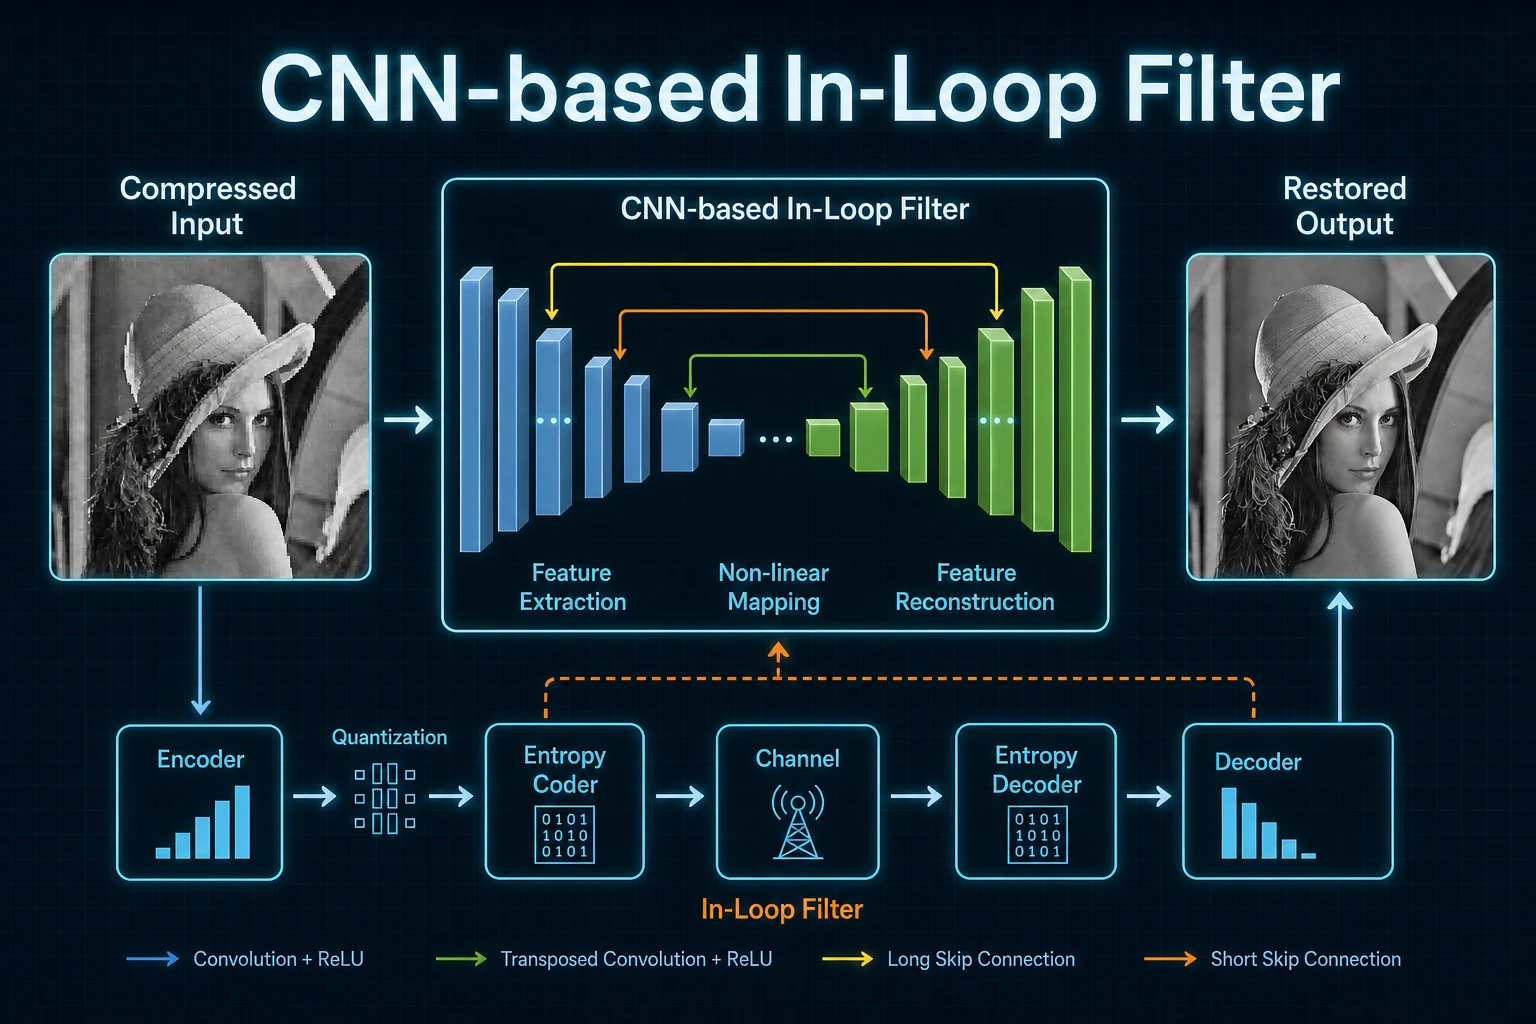
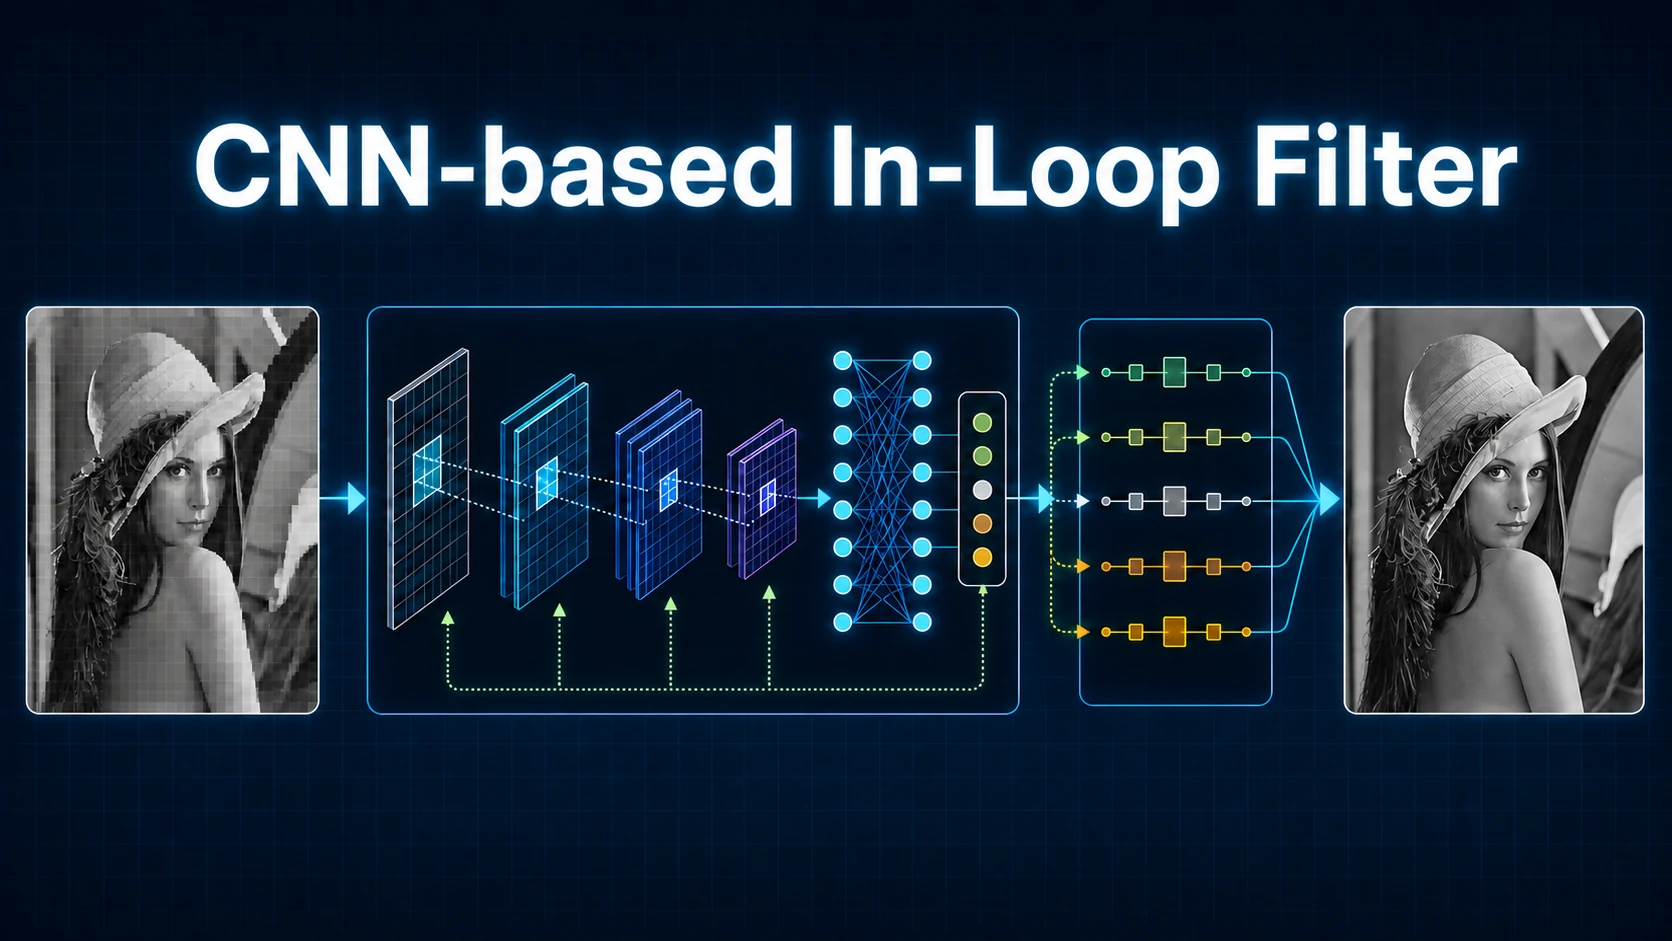
assets: replace CNN example panels with Lena

diff --git a/docs/content-approvals.md b/docs/content-approvals.md
@@ -401,10 +401,11 @@ Approval states: `pending`, `approved`, or `omit`.
 - Presentation: replaces the previous concept illustration for “Adaptive Loop
   Filter with a CNN-Based Classification” on its conference-publication card
   and detail dialog.
-  - Processing: generated at 1536x1024 and saved as an optimized WebP; the
-    image contains the approved title, CNN diagram, and grayscale Lena
-    compressed-input/restored-output panels, with no logos, watermarks, or
-    private information.
+  - Processing: edited from the previously approved 1672x941 artwork and saved
+    as an optimized WebP; only the two outer example panels were replaced with
+    grayscale Lena compressed-input/restored-output panels. The title, central
+    CNN diagram, arrows, labels, and styling remain unchanged; there are no
+    logos, watermarks, or private information.
 - Revision: the title was enlarged, changed to “CNN-based IN-Loop Filter” at
   Johannes' requested capitalization, and moved with the diagram into a lower
   position with a top safety margin to prevent thumbnail clipping.

diff --git a/docs/project-status.md b/docs/project-status.md
@@ -1060,3 +1060,13 @@ Next: A-002
   Commit: pending (this iteration)
   Blockers: none
   Next: run the baseline checks, then commit this scoped asset and documentation update.
+  2026-08-12 — CNN publication exact-layout Lena replacement — complete
+  Result: Edited the prior CNN publication artwork in place, replacing only the
+  left blocky landscape and right restored landscape with compressed and clean
+  Lena panels. The central CNN/filter workflow and title were preserved.
+  Evidence: 1672x941 source inspected; public derivative is a 135,138-byte WebP
+  with the central diagram unchanged and both outer panels inside their original
+  borders.
+  Commit: pending (this iteration)
+  Blockers: none
+  Next: run the baseline checks, then commit this scoped asset and documentation update.
